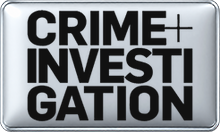
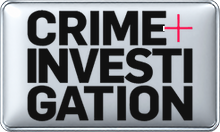
Record manual WHITE approval for case 15551

Changed region(s): [[0.7364, 0.0909, 0.8727, 0.3333]]

diff --git a/docs/PROJECT-CHECKPOINT.md b/docs/PROJECT-CHECKPOINT.md
@@ -14,6 +14,7 @@ This dated status supersedes older immediate-resume instructions in the historic
 - No full-catalog rebuild or merge to `main` has been performed. `main` remains unchanged.
 - User visual selection (2026-09-25): keep the middle-column CURRENT WHITE outputs for #14716, #3163, #3133, and the PASS control; reject the scratch prototype alternatives. No PNG changed. Full paths: `reports/warder-master-production/phase4-v10-experiment-20260925/USER-VISUAL-SELECTION.md`.
 - Scratch adjacency-guard-v2 regression (2026-09-25): #3163 and #3133 detected as unsafe and left REVIEW with 0 changed pixels; #14716 stayed REVIEW via V9 fallback; PASS control stayed PASS. All four composites were pixel-identical to the selected current WHITE outputs. This is limited fixture evidence, not V10 or production approval. Report: `reports/warder-master-production/phase4-v10-experiment-20260925/ADJACENCY-GUARD-V2-REGRESSION.md`.
[1 lines of base64/hex data omitted]
 - Expanded v4 WHITE/BLACK scratch regression (2026-09-25): #14716, #3163, #3133, #3172, #3174, #12062 remained REVIEW and the PASS control remained PASS; all composites were pixel-identical to current outputs, with alpha and protected chromatic pixels unchanged. No AUTO-FIXED case was demonstrated. This is fixture-limited non-regression evidence only, not production approval. Report: `reports/warder-master-production/phase4-v10-experiment-20260925/ADJACENCY-GUARD-V4-BW-REGRESSION.md`.
 - Next gate: continue isolated V10 regression work on the test branch; ambiguous or unsafe samples remain REVIEW. The failed component-mask prototype is not approved, and full-catalog rebuild still requires successful isolated regression evidence and an explicitly approved production path.
 - Do not repeat the visual review or regeneration of Batches 1–13. Continue the Phase 4 V10 workflow on the isolated test branch using the approved records and existing V10 test specification.

diff --git a/reports/warder-master-production/phase4-v10-experiment-20260925/CASE-15551-MANUAL-APPROVAL.md b/reports/warder-master-production/phase4-v10-experiment-20260925/CASE-15551-MANUAL-APPROVAL.md
@@ -1,0 +1,19 @@
+# Case #15551 WHITE — manual visual approval
+
+Date: 2026-09-25
+Branch: `phase4-v10-component-mask-test`
+
+Štefan approved the far-right V10 test candidate, specifying black text and preservation of the red “+”. This approval applies to this single WHITE output.
+
+- Transparent source: `picons/9.0e/ote/transparent/1_0_1_46E_8_AA_5A0000_0_0_0.png`
[2 lines of base64/hex data omitted]
+- Approved WHITE output: `picons/9.0e/ote/white/1_0_1_46E_8_AA_5A0000_0_0_0.png`
[1 lines of base64/hex data omitted]
+- Git blob SHA: `7d08c6d4252733cfed8ff51a836e80451b284402`
+- Dimensions/mode: 220×132 RGBA
+- Alpha unchanged: yes
+- Protected chromatic pixels unchanged: yes
+- Difference from previous output: 296 pixels
+
+The V6 automated check classified this case as REVIEW because four small two-tone components remain ambiguous. The user's visual decision is recorded as a manual approval; the automatic classification remains REVIEW. No algorithm-wide or full-catalog production approval is implied. No other picon, generator, MASTER, or `main` branch is changed by this decision.
